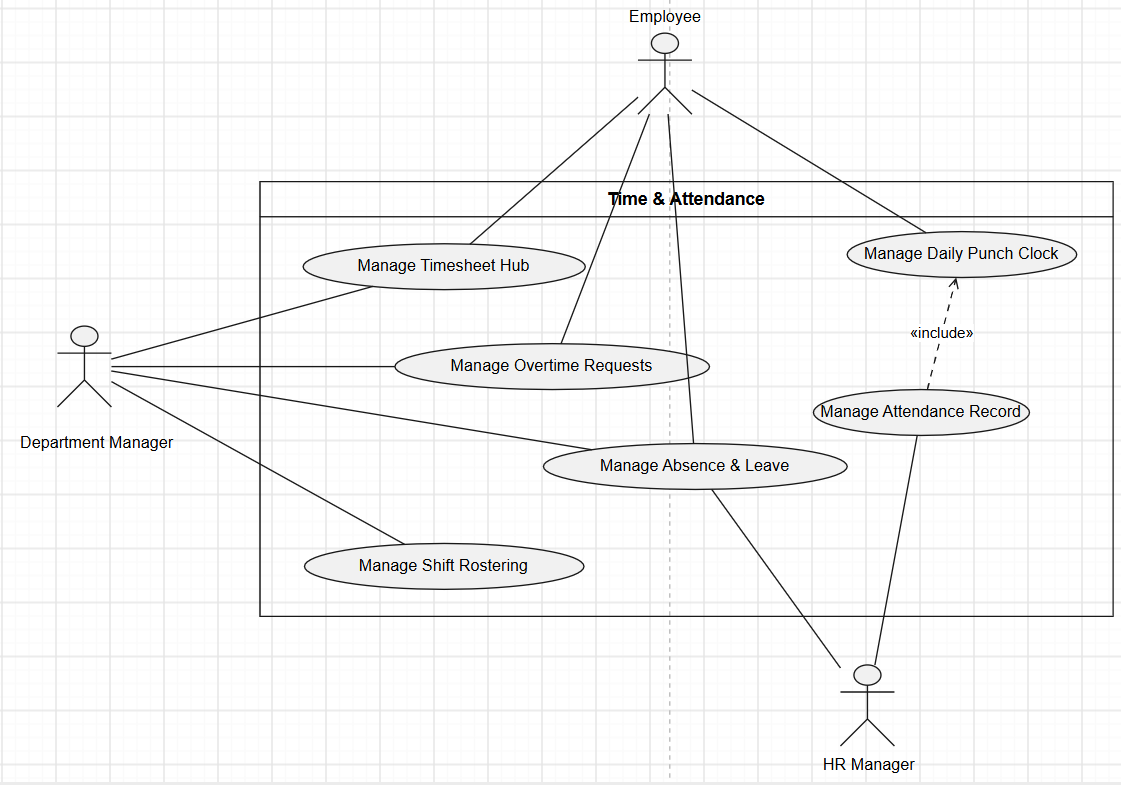
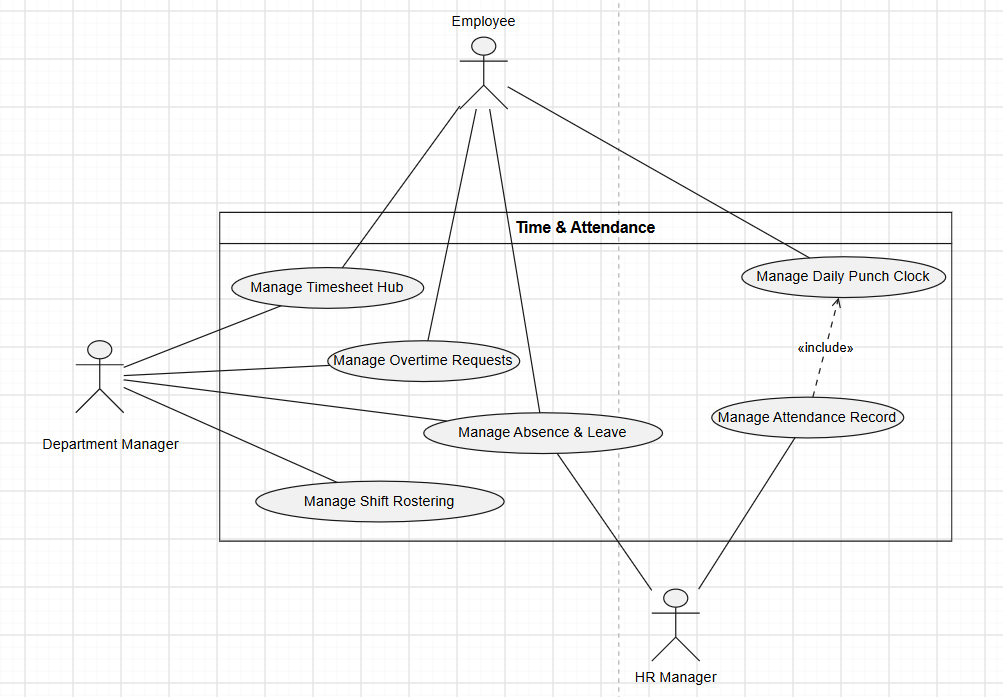
Drawings use cases diagram by drawio

diff --git a/README.md b/README.md
@@ -145,13 +145,7 @@ flowchart LR
 
 ---
 
-## Actor Relationships Diagram
-
-![Actor Relationships Diagram](ActRelation.png)
-
----
-
-## 10 Core Layer 1 Use Case Diagrams
+## Use Case Diagrams
 
 ### 1. Core HR & Employee Management
 **Description:** Use Case Diagram covering Employment Information, Employee Records, Document Vault, Org Architecture, Employee Profile, and Talent Engagement.
